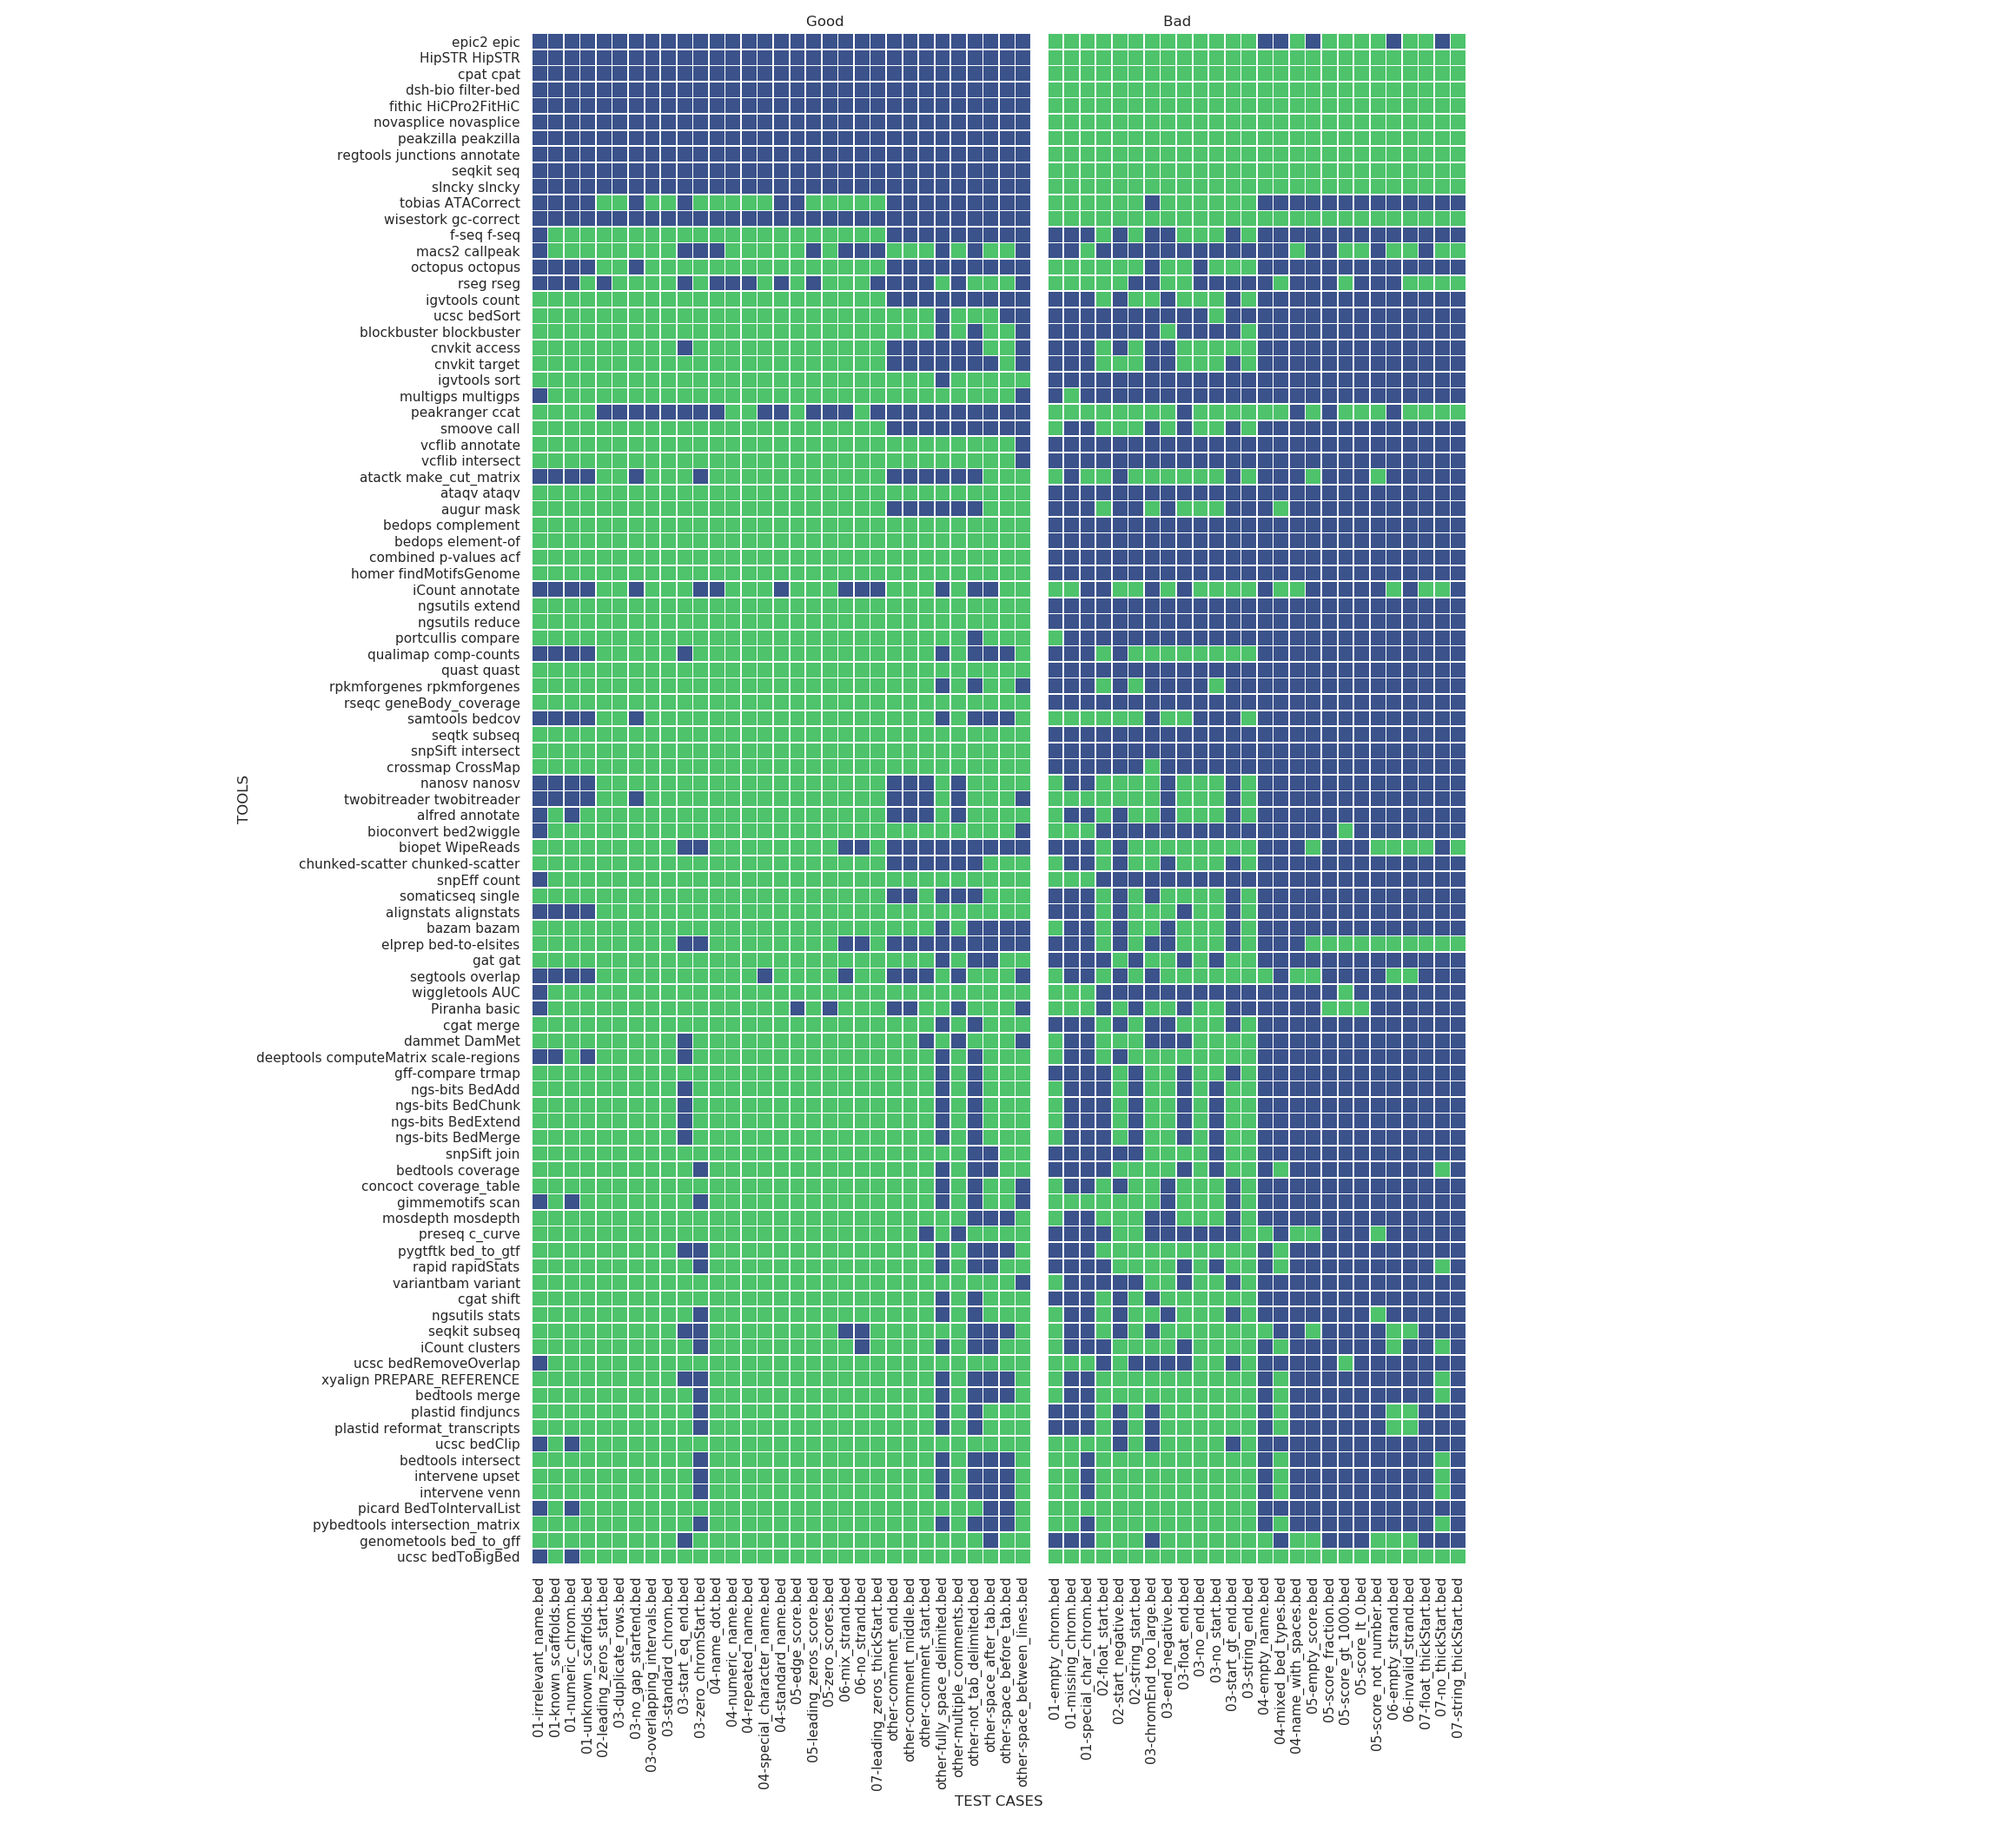
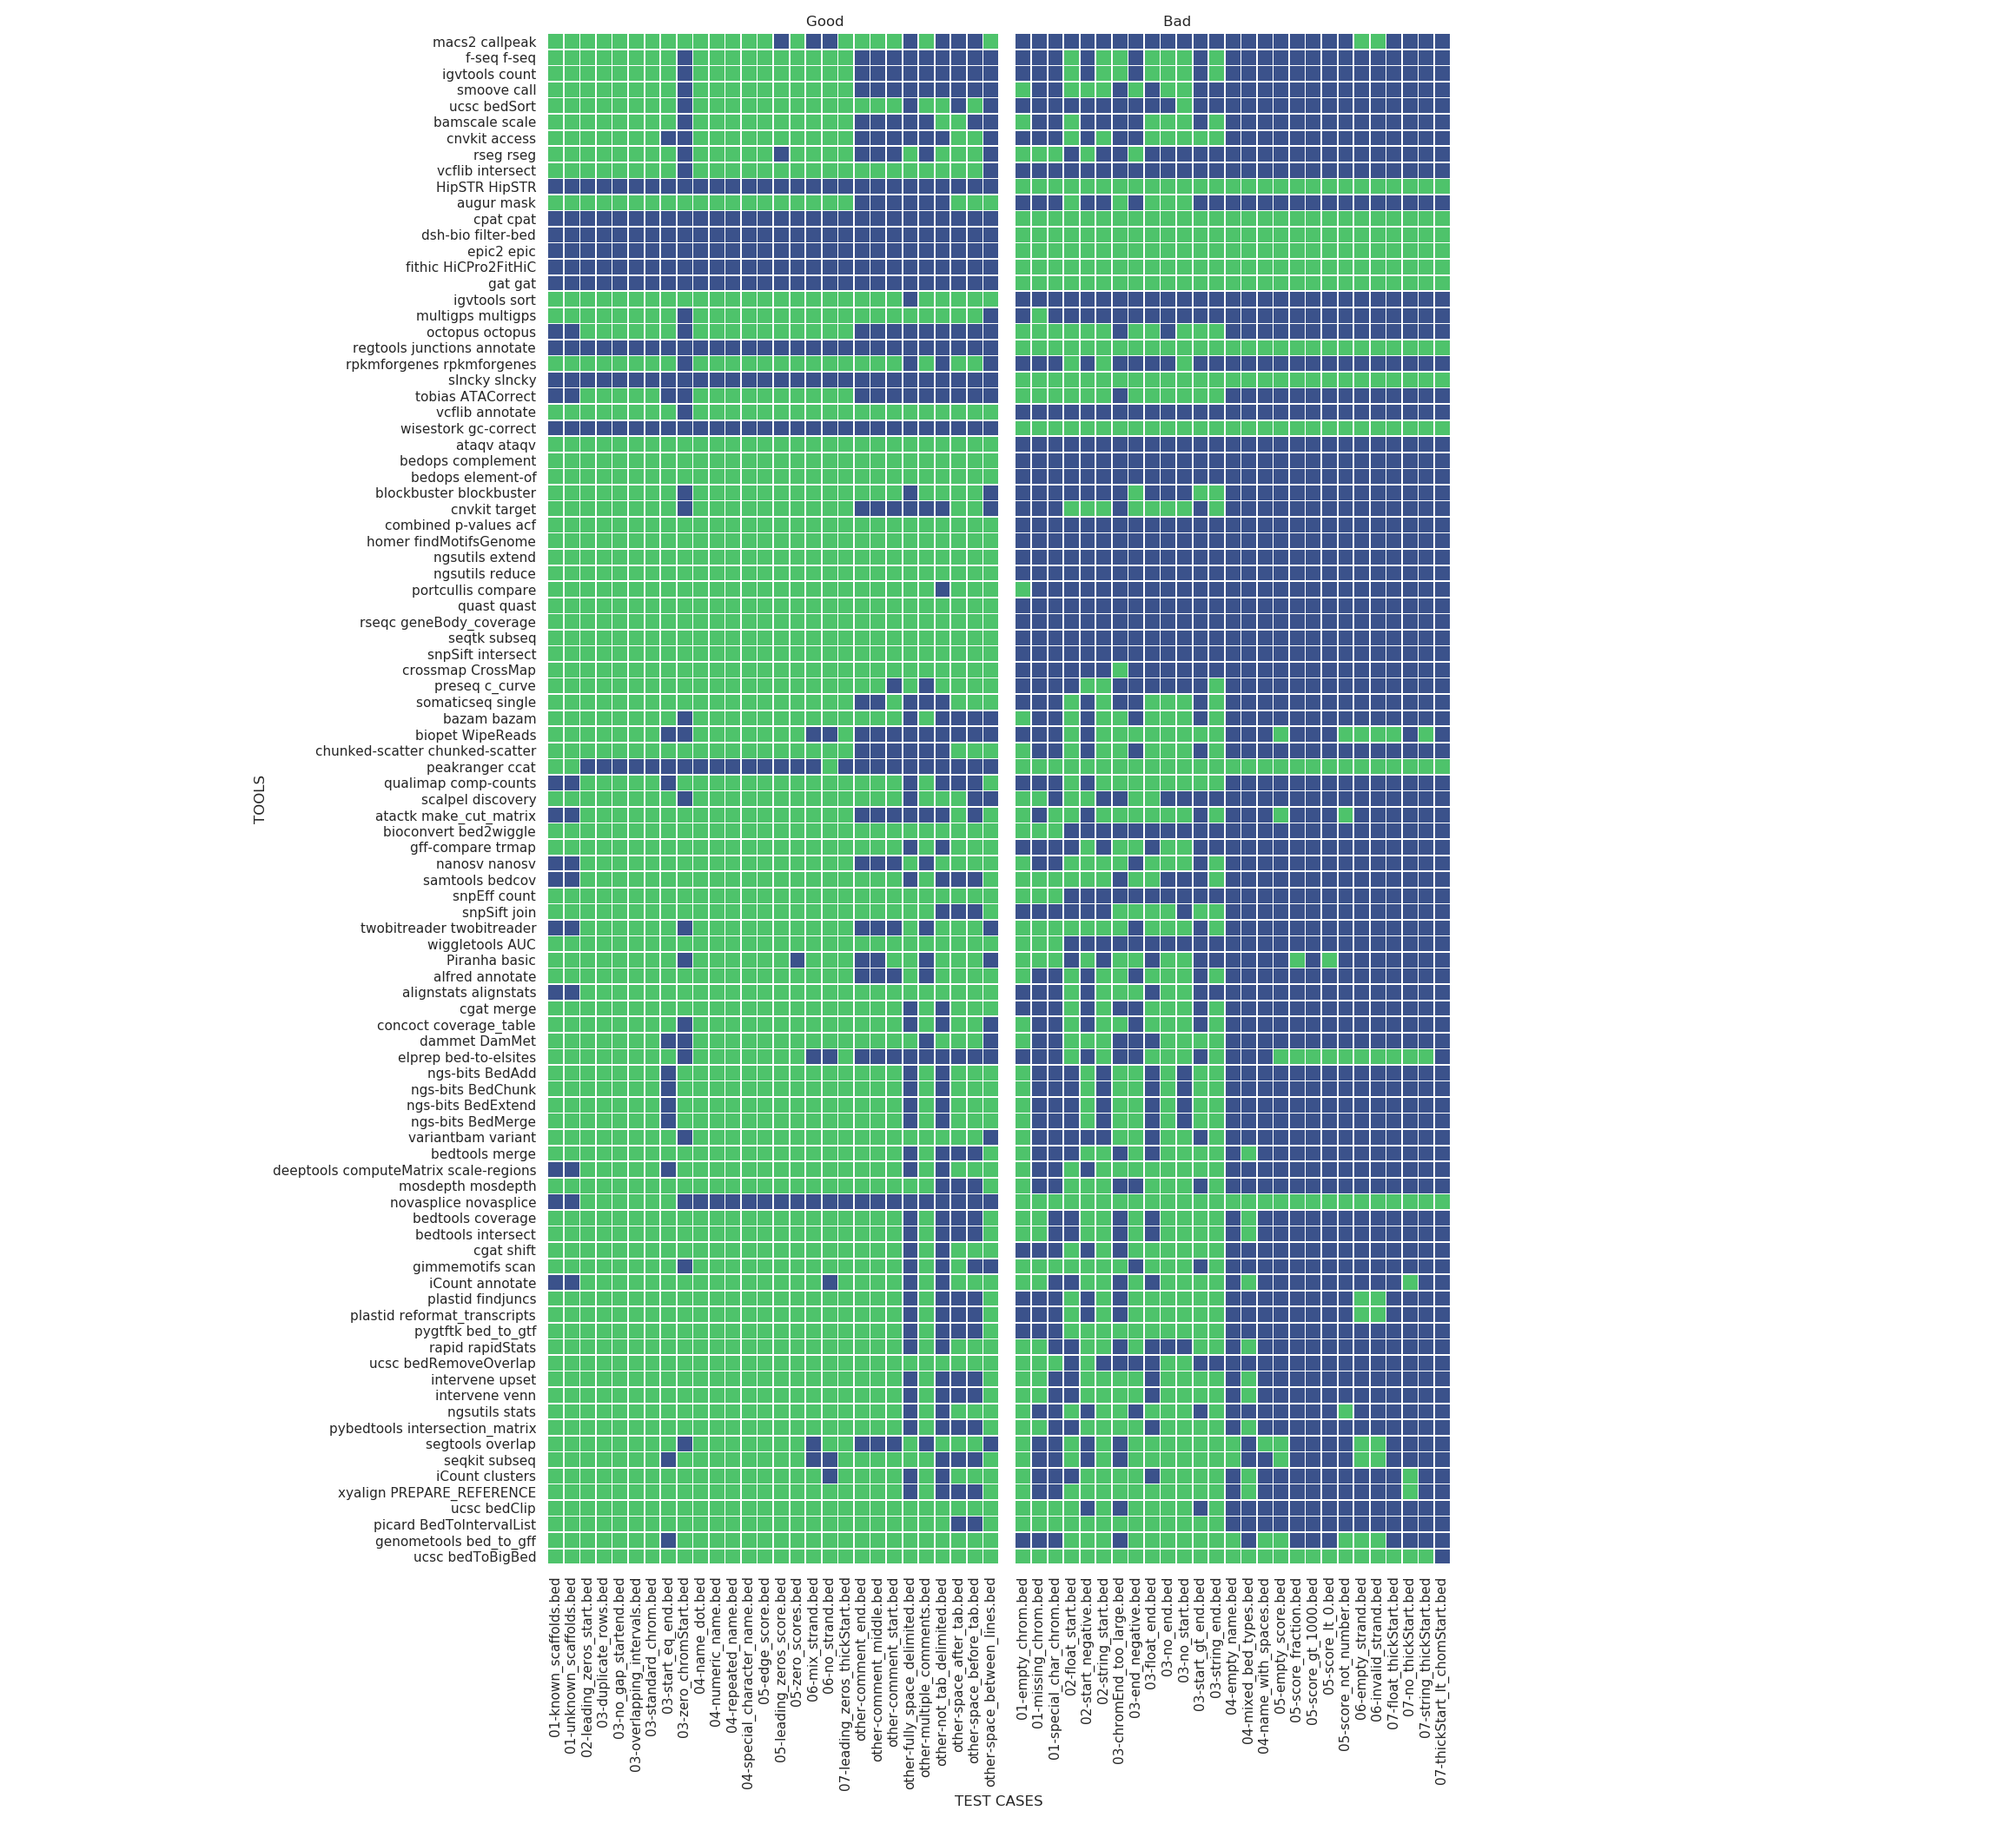
work

diff --git a/bed/get_badge/server.js b/bed/get_badge/server.js
@@ -1,8 +1,13 @@
 var express = require('express');
-var app = express();
 var yaml = require('js-yaml');
 var fs = require('fs');
+
+var app = express();
 var port = process.env.PORT || 8000;
+
+app.get('/', function(req, res) {
+    res.send("Add a query to the URL with tool=&lt;your tool name&gt;");
+});
 
 app.get('/get-badge', function(req, res) {
     var tool = req.query.tool;
@@ -13,10 +18,10 @@ app.get('/get-badge', function(req, res) {
             var url = doc[tool];
             res.redirect(url);
         } else {
-            res.status(404).send('Tool not found');
+            res.redirect("https://img.shields.io/badge/BED Parser-Unknown-informational");
         }
     } catch (e) {
-        res.status(404).send("Something's wrong on our end.");
+        res.status(404).send("Something's wrong on our end");
         console.log(e);
     }
 });

diff --git a/bed/summarize.py b/bed/summarize.py
@@ -10,7 +10,7 @@ import matplotlib.pyplot as plt
 
 from more_itertools import sort_together
 
-import seaborn as sns; sns.set(font_scale=1.4)
+import seaborn as sns; sns.set(font_scale=2.3)
 
 BED_NAMES = ['BED3', 'BED4', 'BED5', 'BED6', 'BED7', 'BED8', 'BED9', 'BED10',
              'BED11', 'BED12']
@@ -44,11 +44,17 @@ if __name__ == '__main__':
             correct_list = l[1]
             name_list = l[2]
             for i in range(len(num_correct)):
-                name = name_list[i]
+                name = name_list[i][:name_list[i].find(' ')]
+
                 if name not in bed_correctness:
                     bed_correctness[name] = {}
-                bed_correctness[name][len(correct_list[i])] = \
-                    num_correct[i] / (len(correct_list[i]) - 1)
+                if len(correct_list) in bed_correctness[name]:
+                    bed_correctness[name][len(correct_list[i])] = \
+                        max(bed_correctness[name][len(correct_list[i])],
+                            num_correct[i] / (len(correct_list[i]) - 1))
+                else:
+                    bed_correctness[name][len(correct_list[i])] = \
+                        num_correct[i] / (len(correct_list[i]) - 1)
 
     programs = list(bed_correctness.keys())
     lengths = sorted(list(bed_correctness[programs[0]].keys()))
@@ -66,11 +72,12 @@ if __name__ == '__main__':
     
     plt.figure(figsize=(39, 50))
 
+    sizing = {'fontsize': 24}
     ax = sns.heatmap(heatmap_array, cmap=plt.get_cmap('bwr'),
         vmin=0, vmax=1, square=False, linewidths=.5, xticklabels=BED_NAMES,
-        yticklabels=programs, annot=True, cbar=False
+        yticklabels=programs, annot=True, cbar=False,
     )
-    sizing = {'fontsize': 24}
+    
     ax.set_ylabel('Tools', **sizing)
     ax.set_xlabel('Bed types', **sizing)
 
